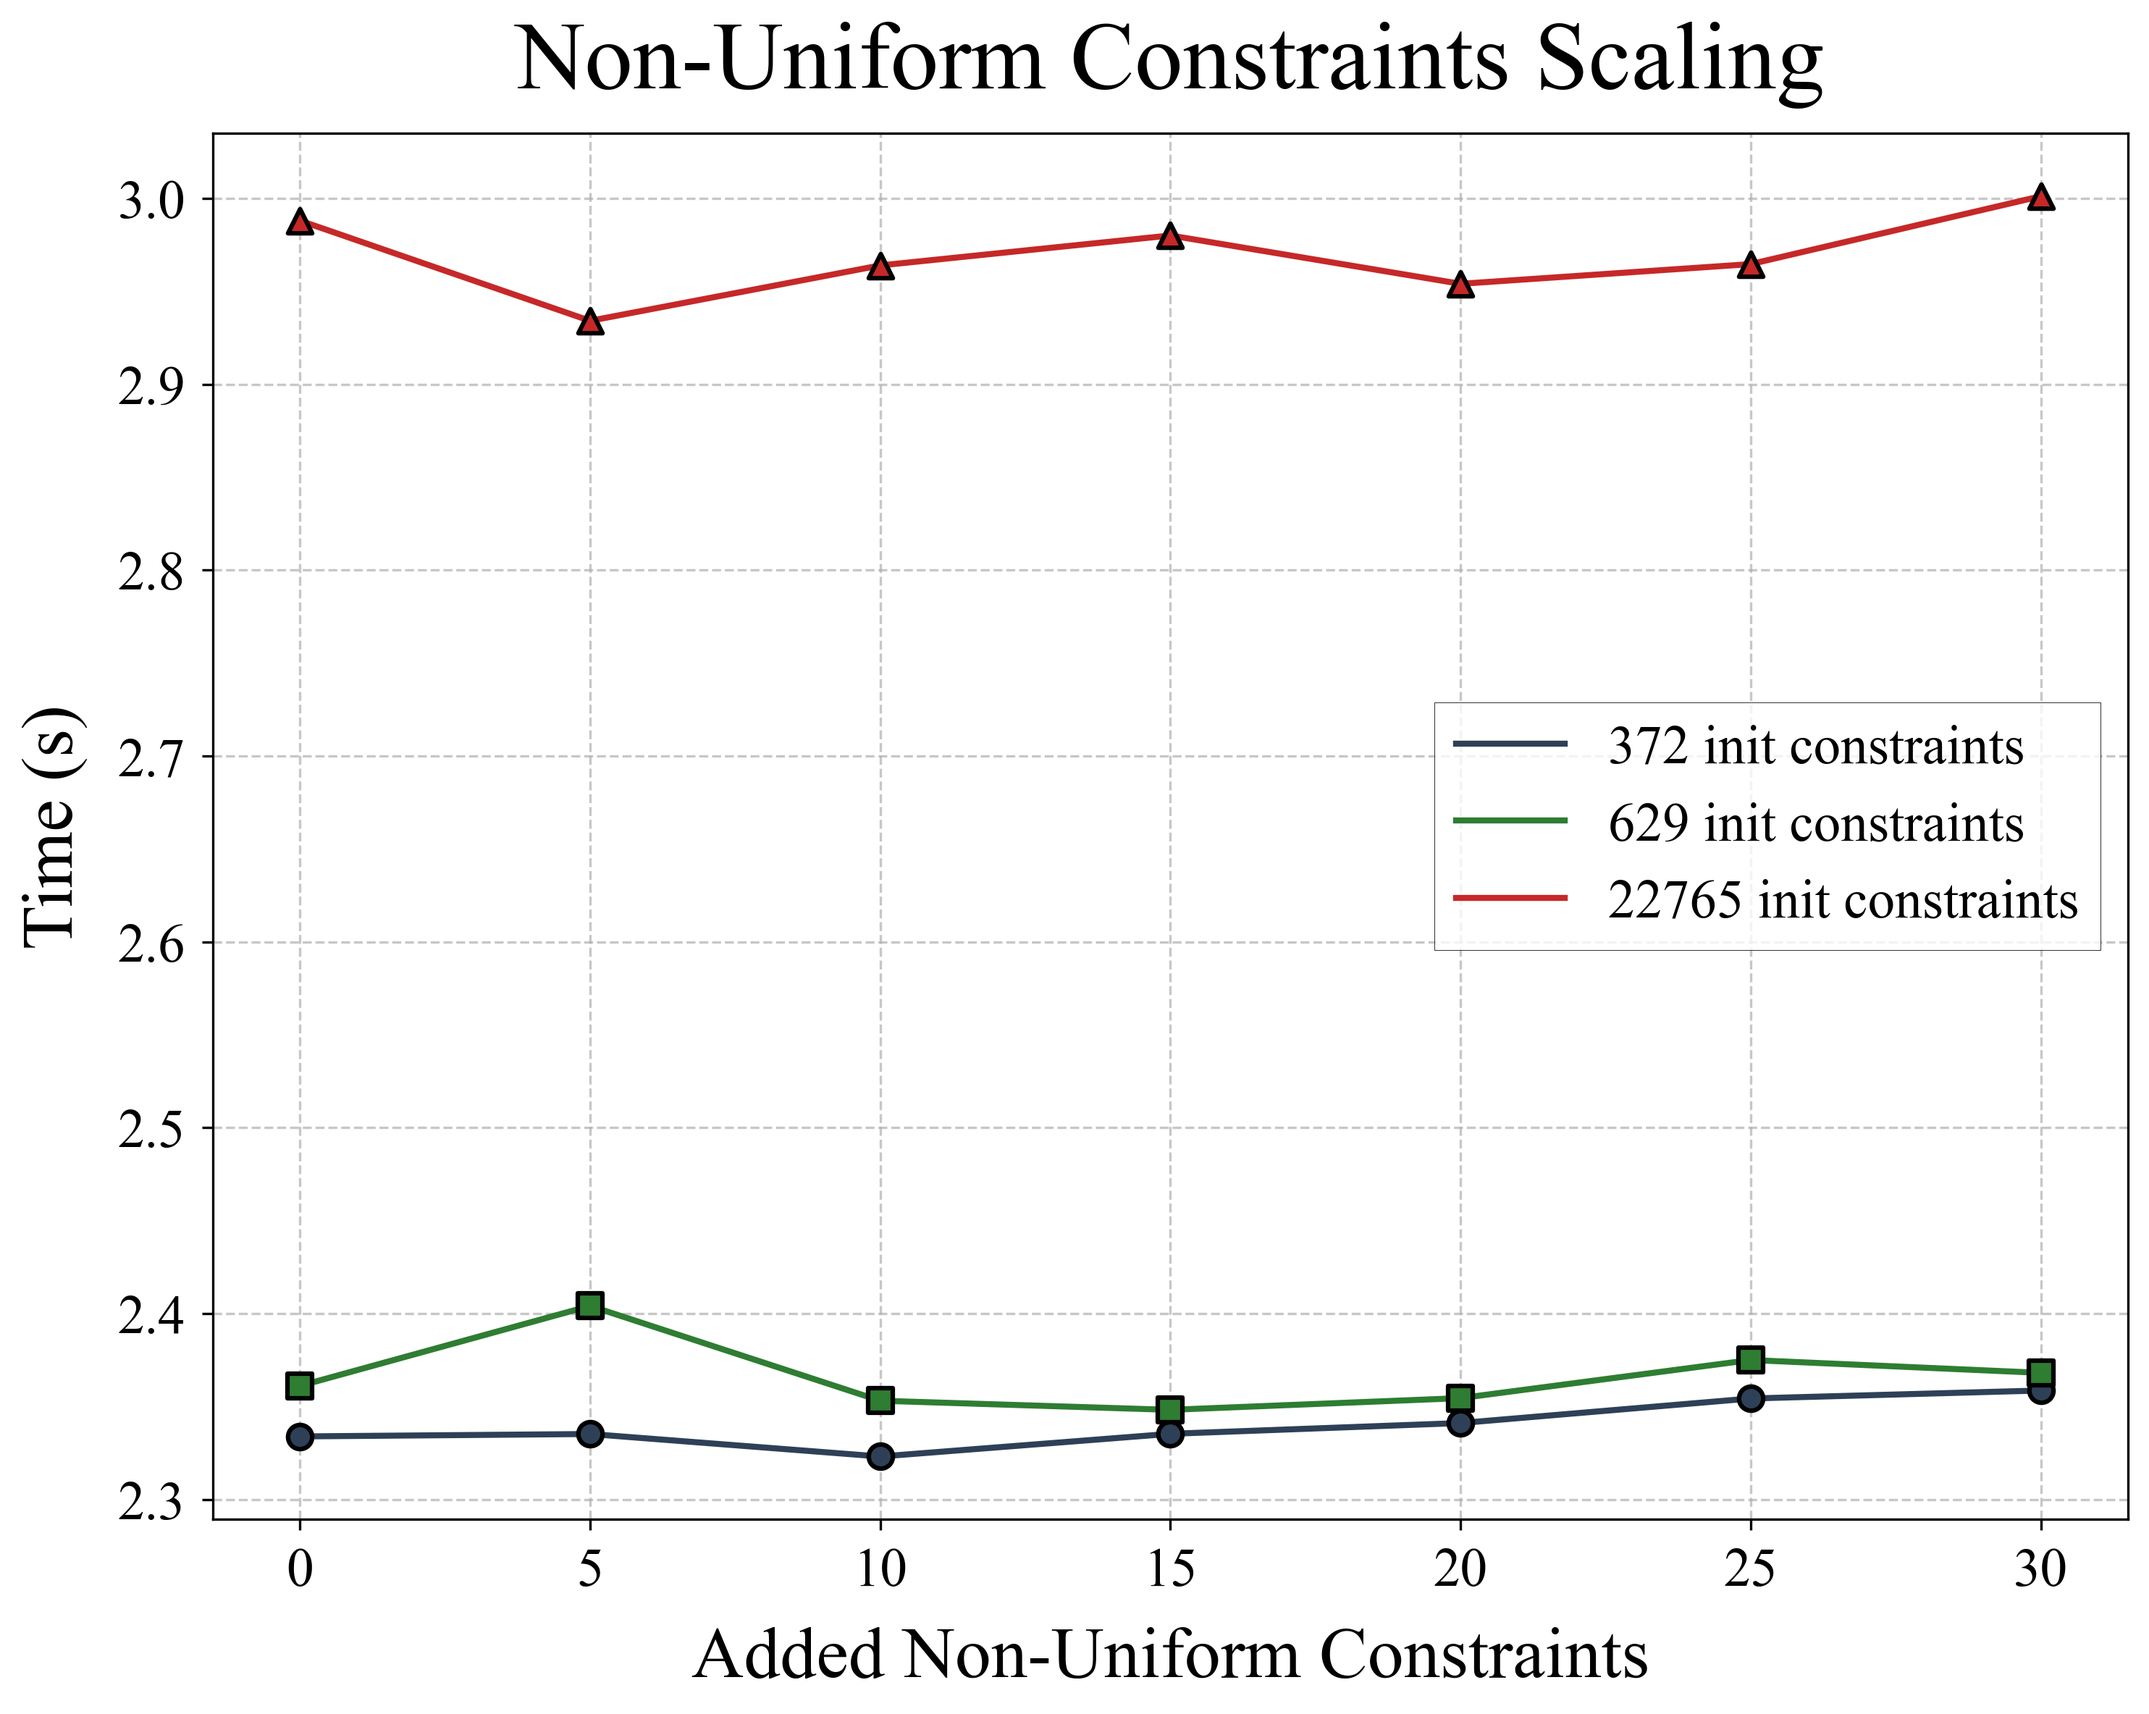
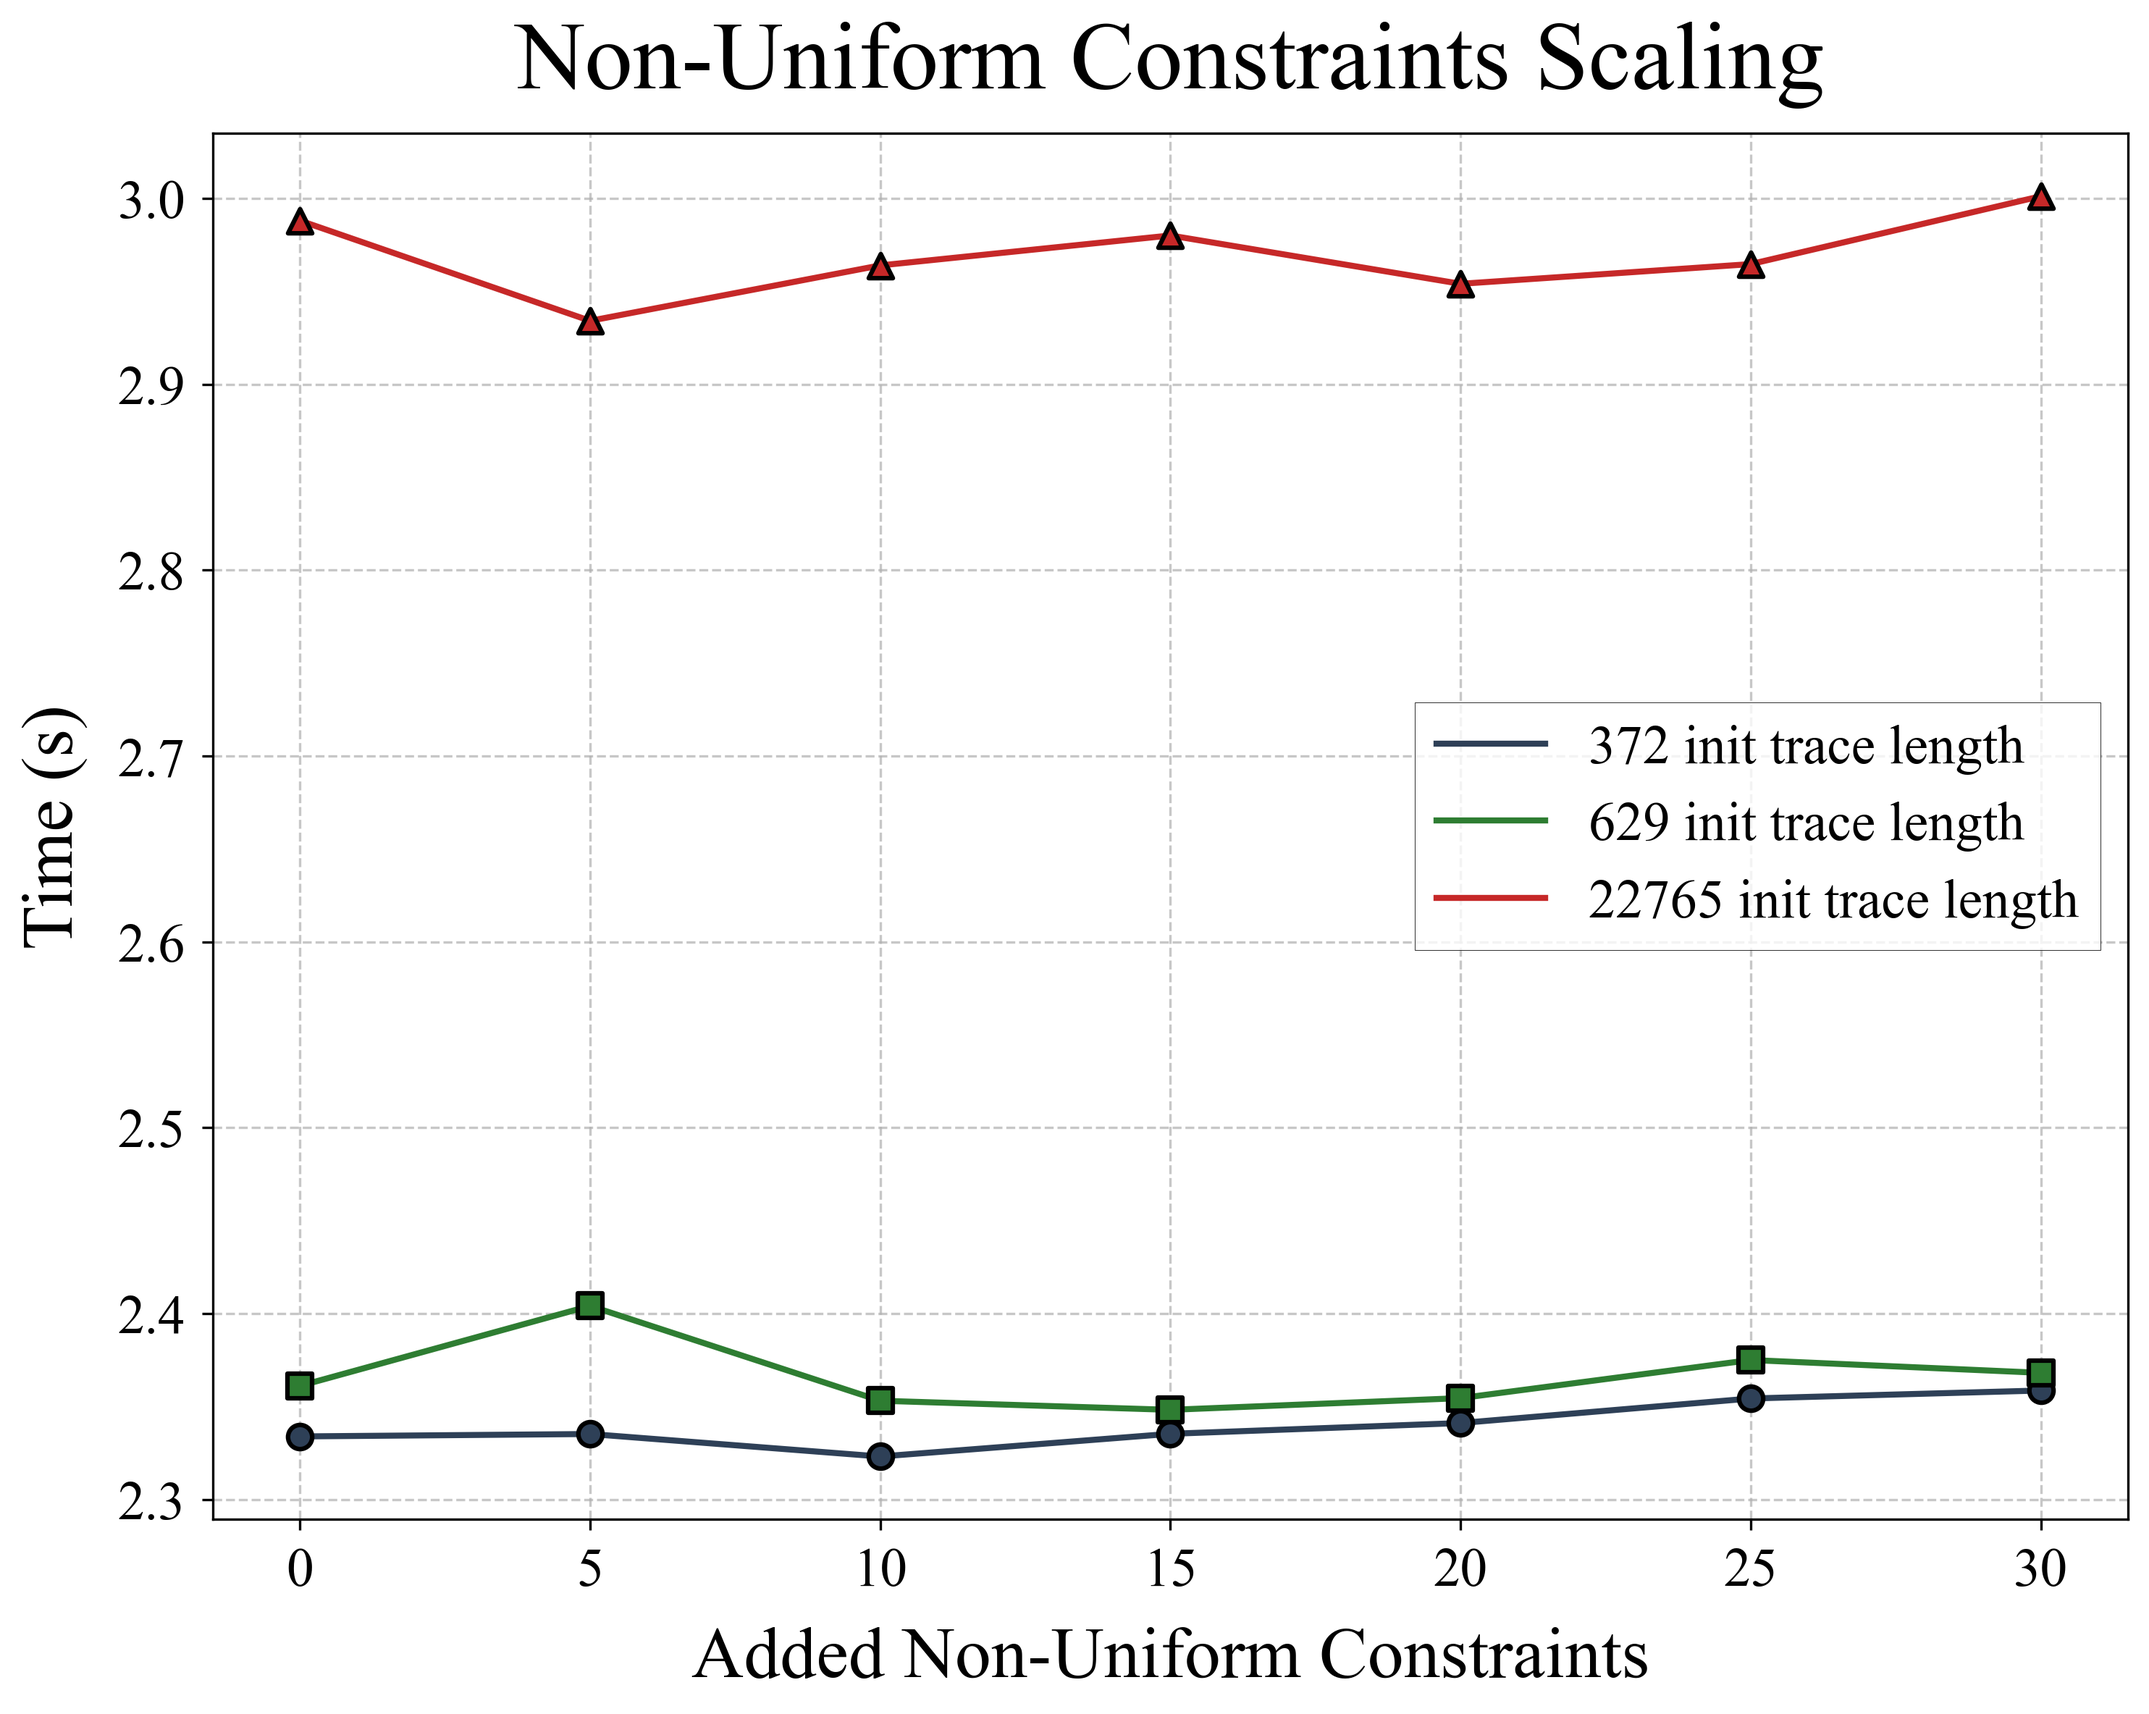
fix: constraint graph labels

Changed region(s): [[0.7439, 0.4009, 0.9609, 0.5551]]

diff --git a/plot/constraints-nonuniform/plotter.py b/plot/constraints-nonuniform/plotter.py
@@ -35,7 +35,7 @@ markers = ['o', 's', '^']
 
 for (file_name, data), color, marker in zip(data_series.items(), colors, markers):
     series_num = file_name.split(".")[0]  # Extract number from filename
-    label = f'{series_num} init constraints'  # Add complexity notation
+    label = f'{series_num} init trace length'  # Add complexity notation
     x_vals, y_vals = zip(*data)
     
     # Plot the data points and connecting lines

diff --git a/plot/constraints-uniform/plotter.py b/plot/constraints-uniform/plotter.py
@@ -35,7 +35,7 @@ markers = ['o', 's', '^']
 
 for (file_name, data), color, marker in zip(data_series.items(), colors, markers):
     series_num = file_name.split(".")[0]  # Extract number from filename
-    label = f'{series_num} init constraints'  # Add complexity notation
+    label = f'{series_num} init trace length'  # Add complexity notation
     x_vals, y_vals = zip(*data)
     
     # Create parabolic fit
